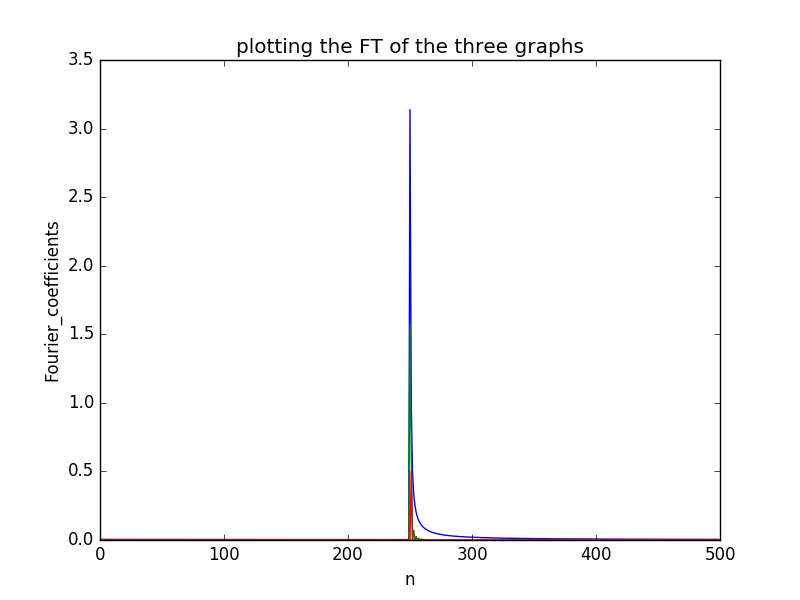
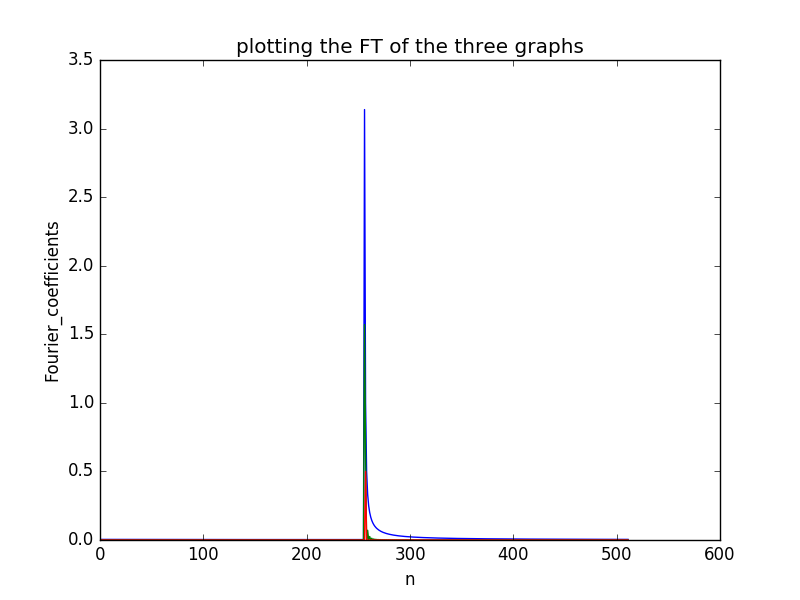
final push

diff --git a/Fourier Transform/E4P6.py b/Fourier Transform/E4P6.py
@@ -19,7 +19,7 @@ def h(x):
 			h_[i] = np.cos(x[i])
 		return h_
 
-N = 1000
+N = 1024
 L = 2*np.pi
 dx = L/float(N)
 x = np.linspace(0,L-dx,N)					# linspace includes the last term, but we want the 
